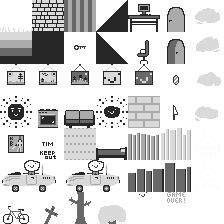
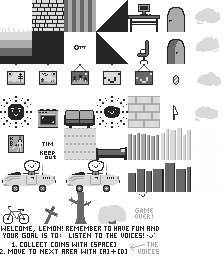
tutorial

diff --git a/src/tileset.rs b/src/tileset.rs
@@ -50,6 +50,10 @@ pub enum Tile {
     Weapon,
     Coin,
     Key,
+    IntroductionText,
+    IntroductionGoalsText,
+    RememberText,
+    VoicesText,
 }
 
 impl Tile {
@@ -65,8 +69,8 @@ impl Tile {
         canvas.copy(
             texture,
             rect!(
-                src_position.0 * 32,
-                src_position.1 * 32,
+                src_position.0 * 32.0,
+                src_position.1 * 32.0,
                 src_size.0,
                 src_size.1
             ),
@@ -82,56 +86,64 @@ impl Tile {
     fn size(&self) -> (u32, u32) {
         match self {
             Tile::CityLayer2 | Tile::LemonCar0 | Tile::LemonCar1 => (64, 32),
+            Tile::IntroductionText => (64, 16),
+            Tile::IntroductionGoalsText => (128, 16),
+            Tile::RememberText => (96, 16),
+            Tile::VoicesText | Tile::GameOver | Tile::LemonSkull => (32, 16),
             _ => (32, 32),
         }
     }
-    fn position(&self) -> (u32, u32) {
+    fn position(&self) -> (f64, f64) {
         match self {
-            Tile::LemonAngel0 => (6, 4),
-            Tile::LemonAngel1 => (6, 5),
-            Tile::GameOver => (5, 6),
-            Tile::Bike => (0, 6),
-            Tile::LemonSkull => (4, 6),
-            Tile::Cross => (1, 6),
-            Tile::Cloud0 => (6, 0),
-            Tile::Cloud1 => (6, 1),
-            Tile::Cloud2 => (6, 2),
-            Tile::Cloud3 => (6, 3),
-            Tile::TreeTrunk => (2, 6),
-            Tile::TreeLeaves => (3, 6),
-            Tile::Grass => (0, 0),
-            Tile::HouseBrick => (1, 0),
-            Tile::StripeWallpaper => (2, 0),
-            Tile::LeftTriangle => (3, 0),
-            Tile::RightTriangle => (3, 1),
-            Tile::Block => (1, 1),
-            Tile::Computer => (4, 0),
-            Tile::DoorClosed => (5, 0),
-            Tile::DoorOpen => (5, 1),
-            Tile::Ground => (0, 1),
-            Tile::TreeDayPicture => (0, 2),
-            Tile::HousePicture => (1, 2),
-            Tile::TreeNightPicture => (2, 2),
-            Tile::LemonDayPicture => (3, 2),
-            Tile::LemonNightPicture => (4, 2),
-            Tile::Sun => (0, 3),
-            Tile::LemonSun => (3, 3),
-            Tile::Oven => (1, 3),
-            Tile::Couch => (2, 3),
-            Tile::KitchenBrick => (4, 3),
-            Tile::ChildPoster => (0, 4),
-            Tile::ChildSticker => (1, 4),
-            Tile::DotWallpaper => (2, 4),
-            Tile::Bed => (3, 4),
-            Tile::CityLayer0 => (5, 4),
-            Tile::CityLayer1 => (4, 4),
-            Tile::CityLayer2 => (4, 5),
-            Tile::LemonCar0 => (0, 5),
-            Tile::LemonCar1 => (2, 5),
-            Tile::OfficeChair => (4, 1),
-            Tile::Weapon => (5, 3),
-            Tile::Coin => (5, 2),
-            Tile::Key => (2, 1),
+            Tile::LemonAngel0 => (6.0, 4.0),
+            Tile::LemonAngel1 => (6.0, 5.0),
+            Tile::Bike => (0.0, 6.0),
+            Tile::LemonSkull => (4.0, 6.0),
+            Tile::GameOver => (4.0, 6.5),
+            Tile::Cross => (1.0, 6.0),
+            Tile::Cloud0 => (6.0, 0.0),
+            Tile::Cloud1 => (6.0, 1.0),
+            Tile::Cloud2 => (6.0, 2.0),
+            Tile::Cloud3 => (6.0, 3.0),
+            Tile::TreeTrunk => (2.0, 6.0),
+            Tile::TreeLeaves => (3.0, 6.0),
+            Tile::Grass => (0.0, 0.0),
+            Tile::HouseBrick => (1.0, 0.0),
+            Tile::StripeWallpaper => (2.0, 0.0),
+            Tile::LeftTriangle => (3.0, 0.0),
+            Tile::RightTriangle => (3.0, 1.0),
+            Tile::Block => (1.0, 1.0),
+            Tile::Computer => (4.0, 0.0),
+            Tile::DoorClosed => (5.0, 0.0),
+            Tile::DoorOpen => (5.0, 1.0),
+            Tile::Ground => (0.0, 1.0),
+            Tile::TreeDayPicture => (0.0, 2.0),
+            Tile::HousePicture => (1.0, 2.0),
+            Tile::TreeNightPicture => (2.0, 2.0),
+            Tile::LemonDayPicture => (3.0, 2.0),
+            Tile::LemonNightPicture => (4.0, 2.0),
+            Tile::Sun => (0.0, 3.0),
+            Tile::LemonSun => (3.0, 3.0),
+            Tile::Oven => (1.0, 3.0),
+            Tile::Couch => (2.0, 3.0),
+            Tile::KitchenBrick => (4.0, 3.0),
+            Tile::ChildPoster => (0.0, 4.0),
+            Tile::ChildSticker => (1.0, 4.0),
+            Tile::DotWallpaper => (2.0, 4.0),
+            Tile::Bed => (3.0, 4.0),
+            Tile::CityLayer0 => (5.0, 4.0),
+            Tile::CityLayer1 => (4.0, 4.0),
+            Tile::CityLayer2 => (4.0, 5.0),
+            Tile::LemonCar0 => (0.0, 5.0),
+            Tile::LemonCar1 => (2.0, 5.0),
+            Tile::OfficeChair => (4.0, 1.0),
+            Tile::Weapon => (5.0, 3.0),
+            Tile::Coin => (5.0, 2.0),
+            Tile::Key => (2.0, 1.0),
+            Tile::IntroductionText => (0.0, 7.0),
+            Tile::IntroductionGoalsText => (0.0, 7.5),
+            Tile::RememberText => (2.0, 7.0),
+            Tile::VoicesText => (4.0, 7.5),
         }
     }
 }

diff --git a/src/scenes/tutorial.rs b/src/scenes/tutorial.rs
@@ -1,0 +1,111 @@
+use std::path::Path;
+
+use sdl2::render::Texture;
+use sdl2::{image::LoadTexture, render::WindowCanvas};
+
+use crate::globals::{GROUND_LEVEL, PIXEL_PER_DOT};
+use crate::helper::{closest_item_within_distance, draw_ground, draw_item};
+use crate::scene::Scene;
+use crate::state::State;
+use crate::tileset::Tile;
+
+use super::Scenes;
+
+#[derive(Default)]
+pub struct Tutorial;
+
+enum Interactables {
+    Bike,
+    Coin,
+}
+
+impl Tutorial {
+    fn draw_scenery(&self, canvas: &mut WindowCanvas, texture: &Texture) -> Result<(), String> {
+        Tile::Bike.draw(canvas, texture, (8.0, GROUND_LEVEL), (1.0, 1.0))?;
+
+        for x in 0..10 {
+            Tile::Grass.draw(canvas, texture, (f64::from(x), GROUND_LEVEL), (1.0, 1.0))?;
+        }
+
+        Tile::Sun.draw(canvas, texture, (1.0, 1.0), (1.0, 1.0))?;
+
+        Ok(())
+    }
+
+    fn draw_text(
+        &self,
+        canvas: &mut WindowCanvas,
+        texture: &Texture,
+        state: &State,
+    ) -> Result<(), String> {
+        if !state.tutorial_coin {
+            Tile::IntroductionText.draw(canvas, texture, (3.0, 2.0), (4.0, 1.0))?;
+            Tile::IntroductionGoalsText.draw(canvas, texture, (1.0, 3.0), (8.0, 1.0))?;
+        } else {
+            Tile::RememberText.draw(canvas, texture, (2.0, 2.5), (6.0, 1.0))?;
+            Tile::VoicesText.draw(canvas, texture, (6.0, 9.25), (1.0, 0.5))?;
+        }
+        Tile::Bike.draw(canvas, texture, (8.0, GROUND_LEVEL), (1.0, 1.0))?;
+
+        for x in 0..10 {
+            Tile::Grass.draw(canvas, texture, (f64::from(x), GROUND_LEVEL), (1.0, 1.0))?;
+        }
+
+        Tile::Sun.draw(canvas, texture, (1.0, 1.0), (1.0, 1.0))?;
+
+        Ok(())
+    }
+
+    fn prepare_items(&self, state: &State) -> Vec<(f64, Interactables)> {
+        let mut items = Vec::new();
+        if state.tutorial_coin {
+            items.push(((PIXEL_PER_DOT * 8.0), Interactables::Bike));
+        } else {
+            items.push(((PIXEL_PER_DOT * 4.0), Interactables::Coin));
+        };
+
+        items
+    }
+}
+
+impl Scene for Tutorial {
+    fn draw_scenery(
+        &self,
+        state: &crate::state::State,
+        canvas: &mut sdl2::render::WindowCanvas,
+        animation_timer: f64,
+    ) -> Result<(), String> {
+        let texture_creator = canvas.texture_creator();
+        let texture = texture_creator.load_texture(Path::new("assets/tile.png"))?;
+
+        draw_ground(canvas)?;
+        self.draw_scenery(canvas, &texture)?;
+        self.draw_text(canvas, &texture, state)?;
+        if !state.tutorial_coin {
+            draw_item(canvas, &texture, &Tile::Coin, 4.0, animation_timer)?;
+        }
+
+        Ok(())
+    }
+
+    fn should_draw_interact_popup(&self, state: &crate::state::State, position: f64) -> bool {
+        let items = self.prepare_items(state);
+        let closest = closest_item_within_distance(items, position);
+        closest.is_some()
+    }
+
+    fn interact(&self, state: &mut State, position: f64) {
+        let items = self.prepare_items(state);
+
+        let closest = closest_item_within_distance(items, position);
+        if let Some(item) = closest {
+            state.send_audio("assets/click.ogg");
+            match item {
+                Interactables::Coin => state.tutorial_coin = true,
+                Interactables::Bike => {
+                    state.scene_changed = Some((1.0, Scenes::Outside));
+                }
+            }
+        }
+    }
+}

diff --git a/src/scenes/outside.rs b/src/scenes/outside.rs
@@ -75,7 +75,7 @@ impl Outside {
             (1.0, 1.0),
         )?;
 
-        let door_texture = if state.front_door_opened {
+        let door_texture = if state.front_door_key_picked_up {
             Tile::DoorOpen
         } else {
             Tile::DoorClosed
@@ -175,14 +175,10 @@ impl Scene for Outside {
                     state.play_ascension_track();
                 }
                 Interactables::Door => {
-                    if state.front_door_opened {
-                        state.scene_changed = Some((1.0, Scenes::Entryway));
+                    state.scene_changed = Some((1.0, Scenes::Entryway));
 
-                        if !(state.confronted) {
-                            state.change_background_track("assets/lemonhead.ogg");
-                        }
-                    } else {
-                        state.front_door_opened = true;
+                    if !(state.confronted) {
+                        state.change_background_track("assets/lemonhead.ogg");
                     }
                 }
                 Interactables::Bike => {

diff --git a/src/game.rs b/src/game.rs
@@ -10,7 +10,7 @@ use crate::{
     scene::Scene,
     scenes::{
         child_room::ChildRoom, entryway::Entryway, kitchen::Kitchen, living_room::LivingRoom,
-        murder_living_room::MurderLivingRoom, outside::Outside, Scenes,
+        murder_living_room::MurderLivingRoom, outside::Outside, tutorial::Tutorial, Scenes,
     },
     state::State,
 };
@@ -33,6 +33,7 @@ pub fn game(
     let mut animation_timer = 0.0;
     let mut escape_timer = 0.0;
 
+    let tutorial = Tutorial::default();
     let outside = Outside::default();
     let entryway = Entryway::default();
     let kitchen = Kitchen::default();
@@ -40,7 +41,7 @@ pub fn game(
     let murder_living_room = MurderLivingRoom::default();
     let child_room = ChildRoom::default();
 
-    let mut scene: &dyn Scene = &outside;
+    let mut scene: &dyn Scene = &tutorial;
     let mut state = State::new(sound_effect_sender, music_sender);
     let mut lemonhead = Actor::new("assets/lemonhead.png");
     lemonhead.set_position(PIXEL_PER_DOT, PIXEL_PER_DOT * GROUND_LEVEL);

diff --git a/src/dead_ending.rs b/src/dead_ending.rs
@@ -47,7 +47,7 @@ pub fn dead_ending(
             (10.0, 10.0 - GROUND_LEVEL - 2.0),
         )?;
 
-        Tile::LemonSkull.draw(canvas, &texture, (5.0, GROUND_LEVEL + 2.0), (1.0, 1.0))?;
+        Tile::LemonSkull.draw(canvas, &texture, (5.0, GROUND_LEVEL + 2.0), (1.0, 0.5))?;
 
         let angel = if animation_timer % 0.2 > 0.1 {
             Tile::LemonAngel0
@@ -69,7 +69,7 @@ pub fn dead_ending(
             canvas,
             &texture,
             (2.0, 1.0 + (animation_timer * 1.2).sin() * 0.1),
-            (6.0, 6.0),
+            (6.0, 3.0),
         )?;
 
         canvas.present();

diff --git a/src/state.rs b/src/state.rs
@@ -5,8 +5,8 @@ use crate::scenes::Scenes;
 
 pub struct State<'a> {
     pub front_door_key_picked_up: bool,
-    pub front_door_opened: bool,
     pub weapon_picked_up: bool,
+    pub tutorial_coin: bool,
     pub coin_0: bool,
     pub coin_1: bool,
     pub coin_2: bool,
@@ -34,7 +34,7 @@ impl<'a> State<'a> {
         Self {
             front_door_key_picked_up: false,
             weapon_picked_up: false,
-            front_door_opened: false,
+            tutorial_coin: false,
             coin_0: false,
             coin_1: false,
             coin_2: false,

diff --git a/src/helper.rs b/src/helper.rs
@@ -86,7 +86,7 @@ pub fn draw_interact_prompt(
         2
     };
 
-    let x_position = 5.5 - x_size;
+    let x_position = 5.0 - x_size;
 
     canvas.copy(
         &texture,

diff --git a/src/scenes/mod.rs b/src/scenes/mod.rs
@@ -4,6 +4,7 @@ pub mod kitchen;
 pub mod living_room;
 pub mod murder_living_room;
 pub mod outside;
+pub mod tutorial;
 
 pub enum Scenes {
     Entryway,
